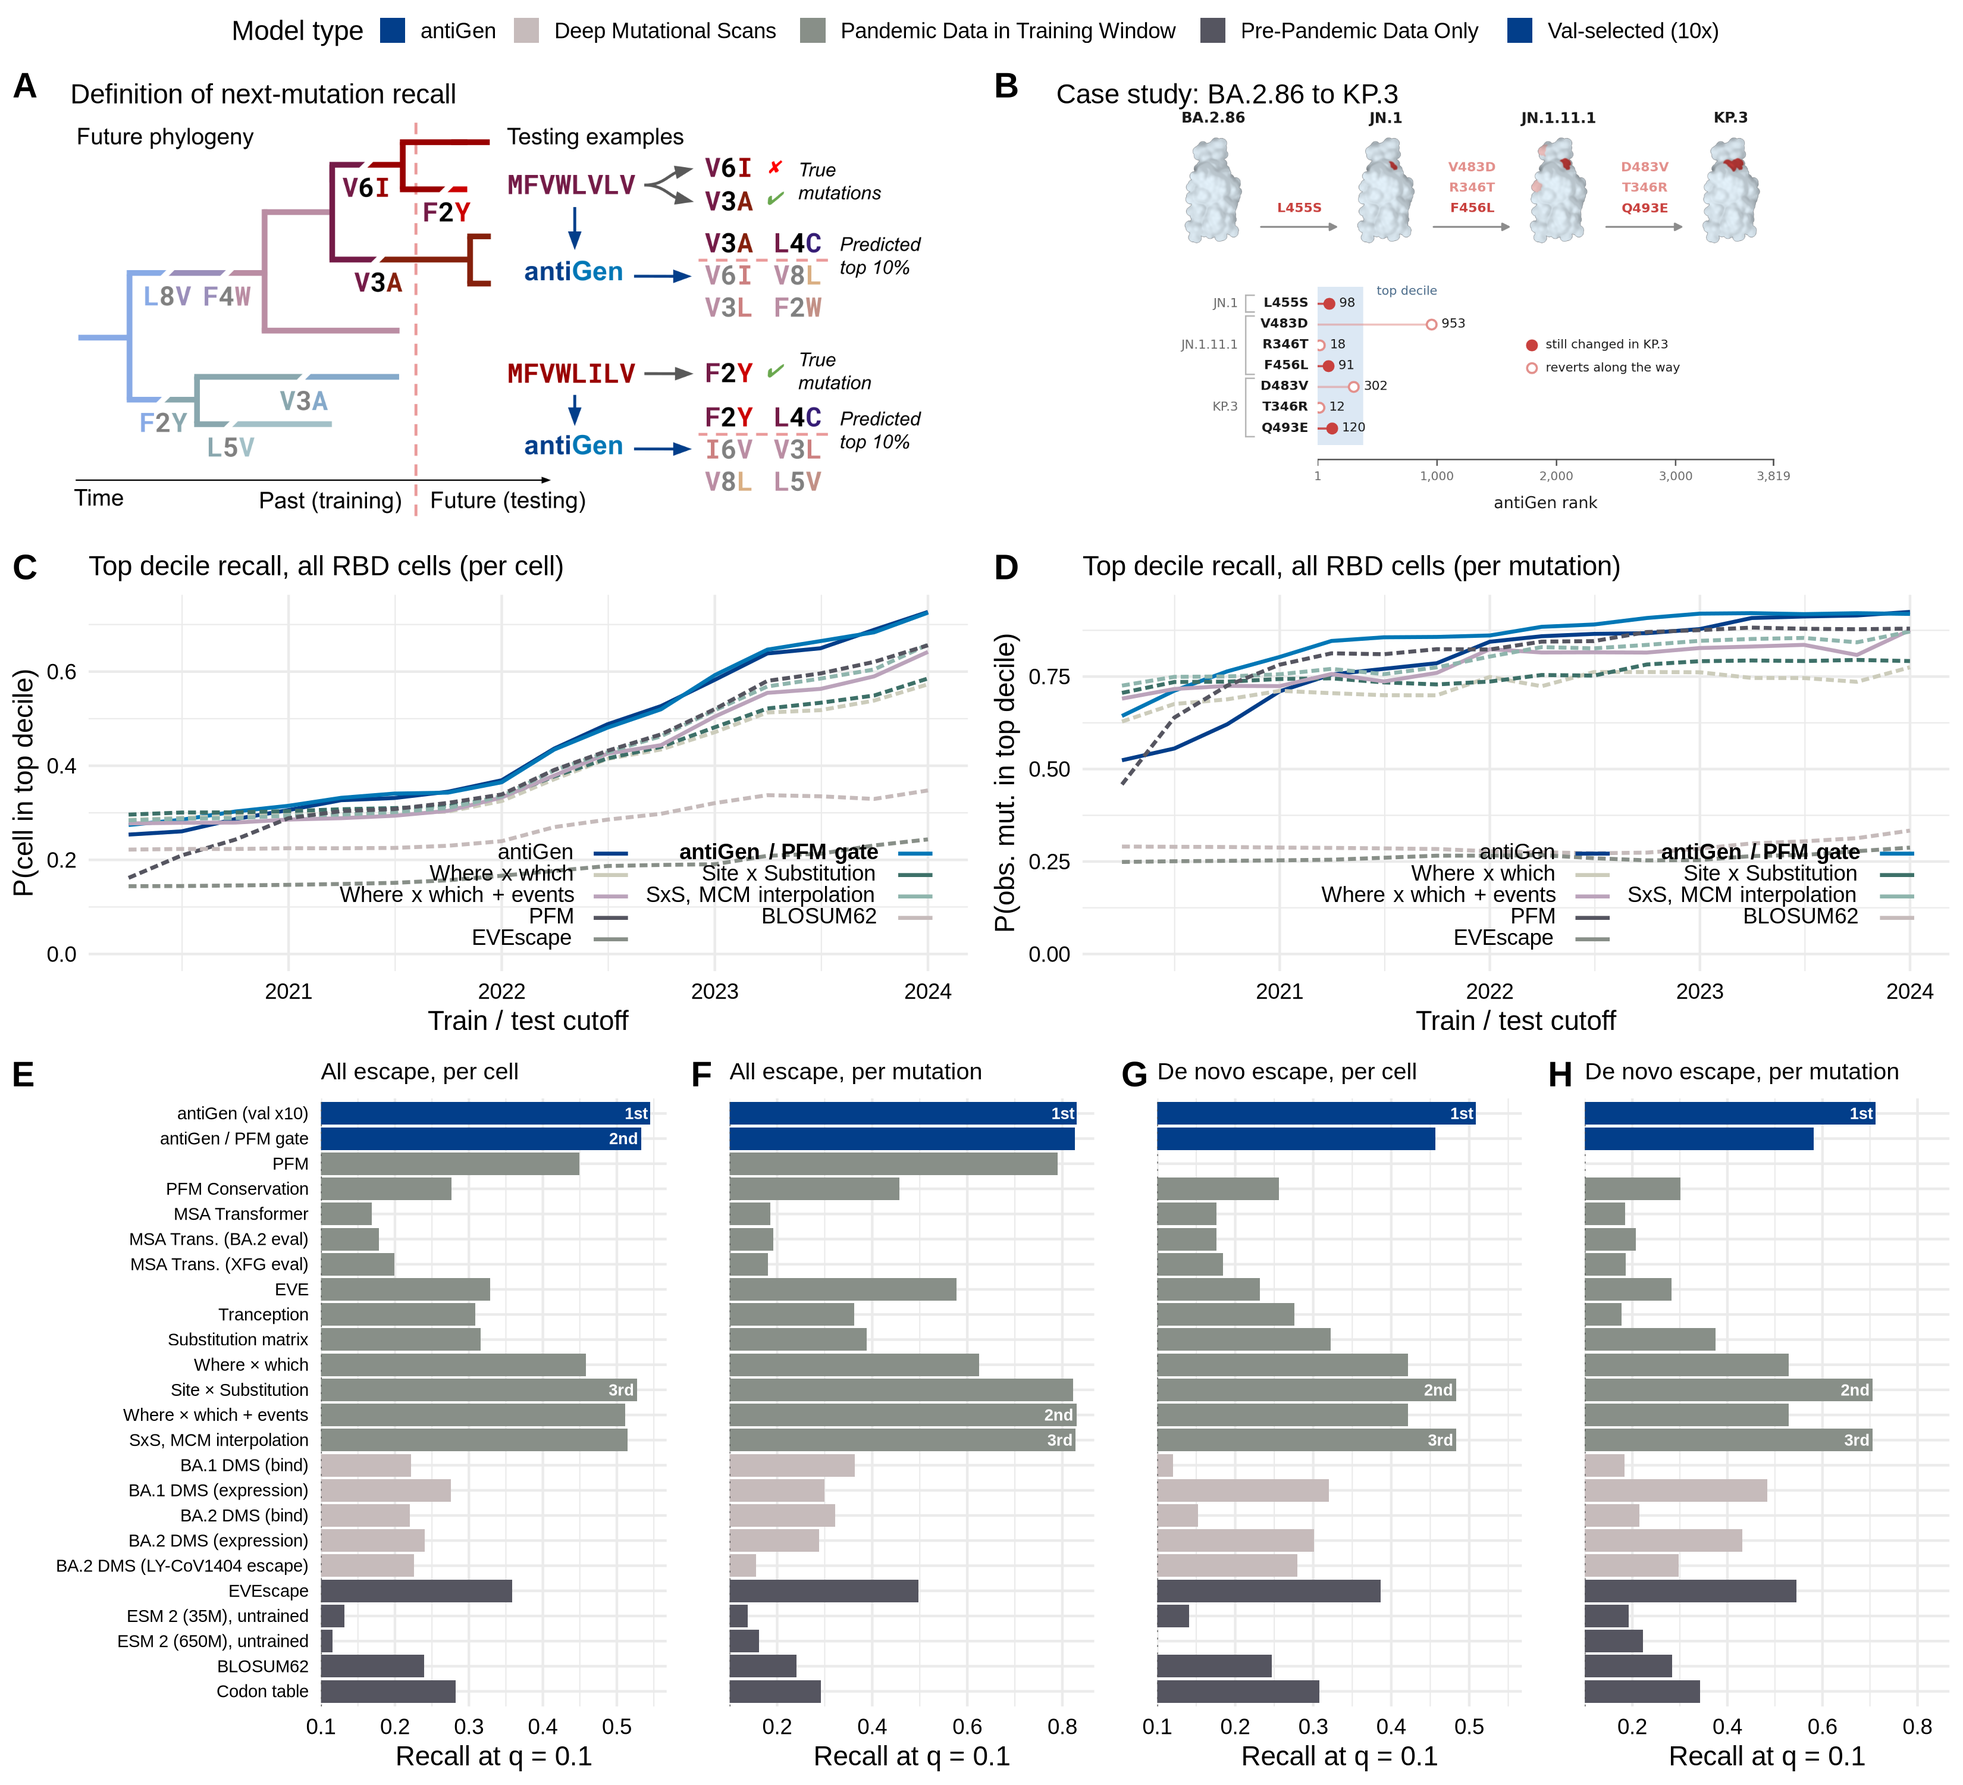
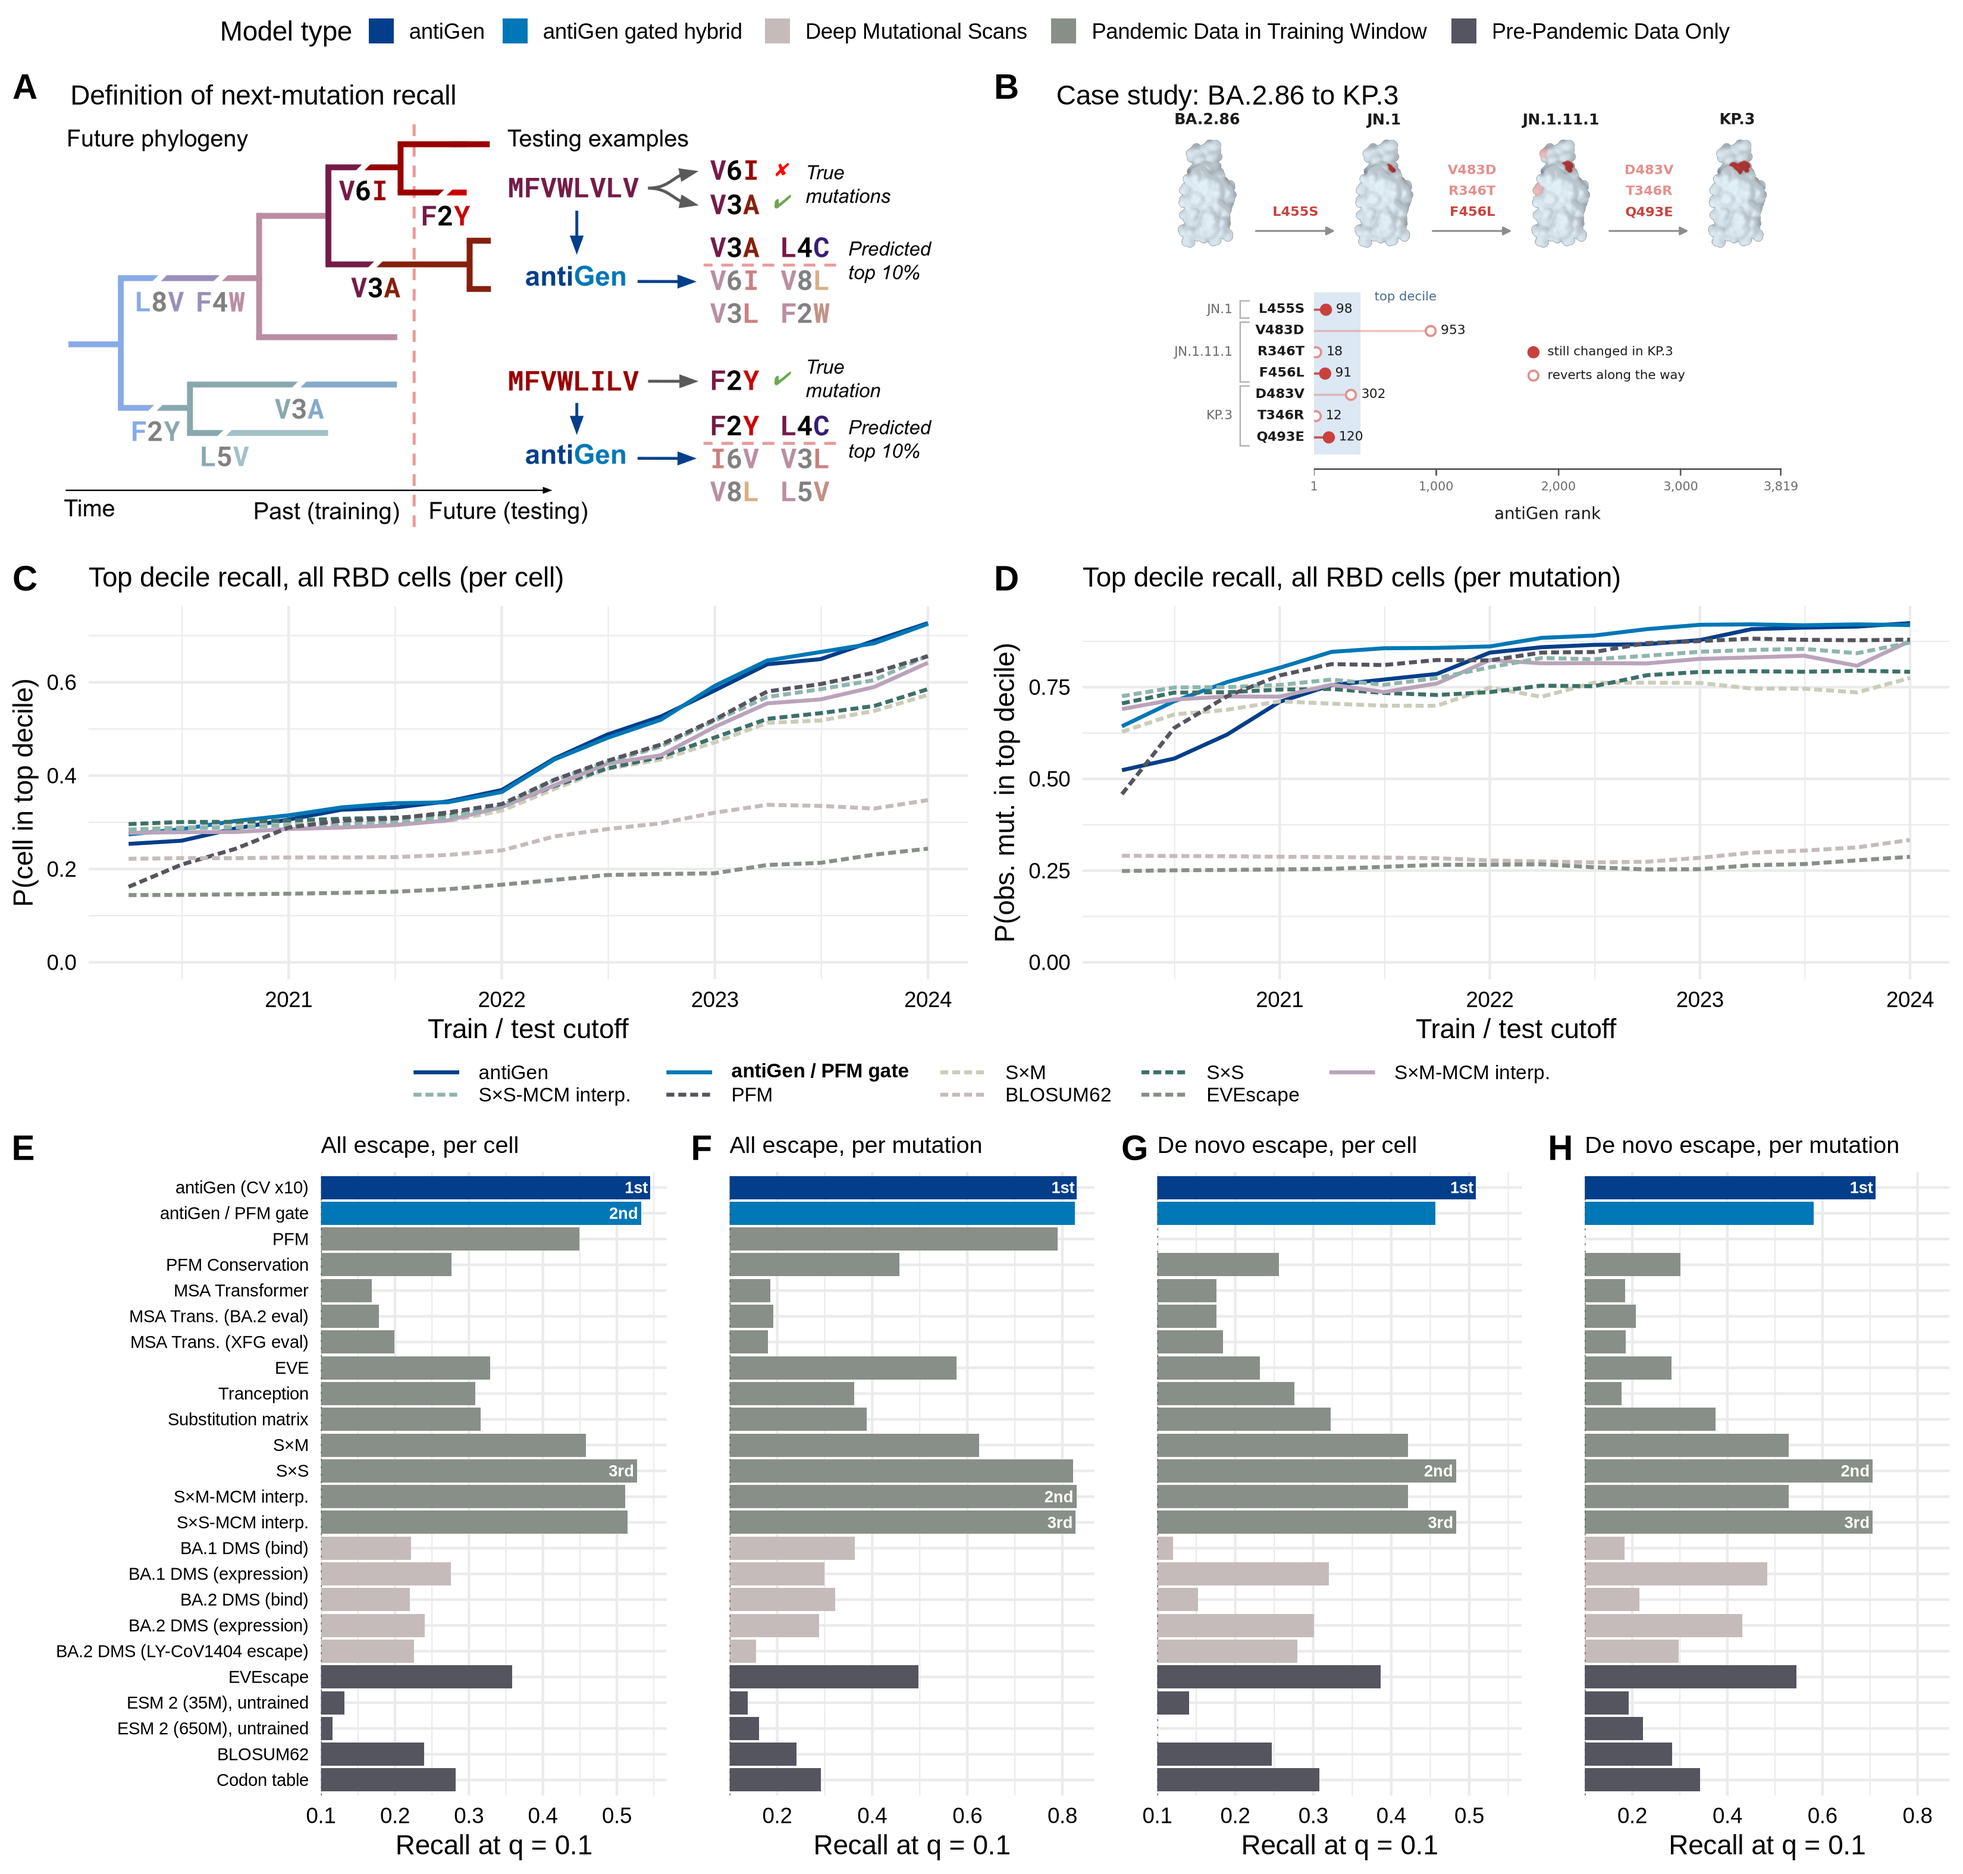
revised2: new model names, two antiGen model types, C/D key under the panels
One label table (figures/revised2_labels.R) for this figure only: PFM,
antiGen (CV x10), SxS, SxS-MCM interp., SxM, SxM-MCM interp. CV bar joins
antiGen; the gate becomes 'antiGen gated hybrid' in the gate's light blue.
The C/D key moves to a shared strip below both panels, with dashed keys for
the baselines. NOTES s116 addendum, s117.

diff --git a/experiments/multitree/NOTES.md b/experiments/multitree/NOTES.md
@@ -12400,3 +12400,53 @@ downstream, at the figure, in one of two ways depending on how each panel draws 
 
 `fig_sc2_revised2.R` stops if any panel still says PSSM after both steps. The
 `sc2_results_aa20` and `sc2_results_revised` outputs are unchanged.
+
+### s116 addendum: the rest of the renames, and two model types
+
+The PSSM -> PFM rename widened into one table, `antiGen-figures/figures/revised2_labels.R`,
+still for `sc2_results_revised2` only:
+
+| was | now |
+|---|---|
+| antiGen (val x10) | antiGen (CV x10) |
+| Site × / x Substitution | S×S |
+| SxS, MCM interpolation | S×S-MCM interp. |
+| Where × / x which | S×M (site × mixture) |
+| Where × / x which + events | S×M-MCM interp. |
+
+MCM is the mutation count matrix. Both spellings of the times sign are listed because
+the bar drawer writes "×" and the gate drawer "x"; every new name uses ×. Labels are
+matched WHOLE, not by regex. Both mechanisms read this one table: the grob walk for
+E-H, and `sc2.gate_label_map` for C/D, which the exports now set from the table when
+`REVISED2_LABELS=1` (formerly `REVISED_PFM`). The figure stops if anything matching
+`REVISED2_STALE` survives.
+
+**Model types.** "Val-selected (10x)" was never a model type, only a group the
+ensemble arm appends. Under `REVISED2_LABELS`, `panels_coguk_export.R` now regroups
+the frames the bars read: the CV bar joins **antiGen**, and the gate becomes **antiGen
+gated hybrid** in `GATE_BLUE`, the colour its line already has in C/D. This is done on
+the data frames rather than in `MODEL_GROUP`, because that vector is also the bar order
+and must stay contiguous by group; bar order is unchanged.
+
+## 117. sc2_results_revised2: the C/D key moves under the panels (2026-11-08)
+
+The cutoff-series key sat inside the lower-right of C and D, over the dashed baselines.
+C and D draw the same nine lines in the same colours, so one key serves both. It is now
+a two-row strip under row 2:
+
+* `panels_gate_macro_export.R` exports it as `gate_legend`, built from the C panel's
+  own plot. Entries, colours and order are therefore the panel's.
+* `fig_sc2_revised2.R` removes the in-panel copies from both baked grobs. In
+  ggplot2 >= 3.5 the inside legend is its own `guide-box-inside` component.
+
+Three details:
+
+* **Dashed keys.** The old key drew every line solid, because the linetype guide is
+  suppressed. The strip's `override.aes` draws `GATE_BASELINES` (after the label map)
+  dashed, as in the panels.
+* **Plain text, not markdown.** gridtext measures "×" wider than it draws it, which left
+  a gap after every S×S / S×M label. The strip uses `element_text` at 8 pt, against the
+  bars' 7 pt row labels, and does the one bold entry with plotmath. `element_markdown`
+  and `element_text` do not merge, so the key text is blanked first and then set.
+* **Size.** The canvas is 10.5 in tall (was 10). Row 2 gets 1.1 of the height and a small
+  spacer keeps the strip off the E-H titles.
